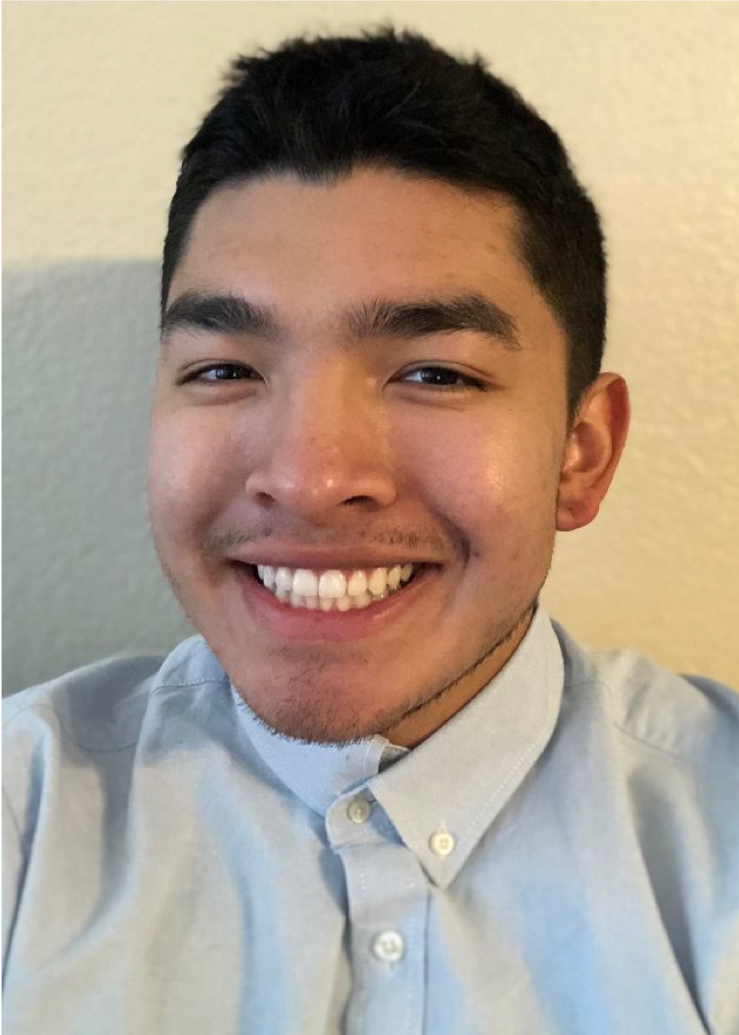
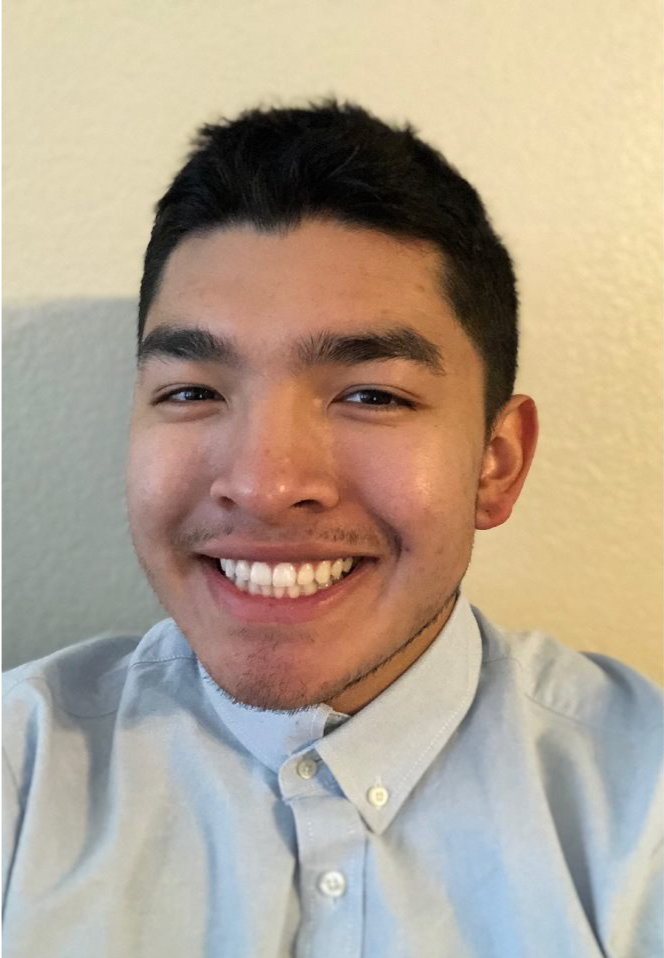
testing smaller pic

diff --git a/index.html b/index.html
@@ -226,7 +226,7 @@
                 <div class="row">
                 <div class="col-md-4 col-sm-6">
                     <div class="Instructors-image">
-                    	<div class="images" style="background-image: url('images/Antonio.jpg');"></div>
+                    	<div class="images" style="background-image: url('images/test.png');"></div>
                       
                         <div class="work_overlay text-center hidden-xs hidden-sm">
                             <img src="images/shape-hover.png" class="img-responsive" alt="img">
